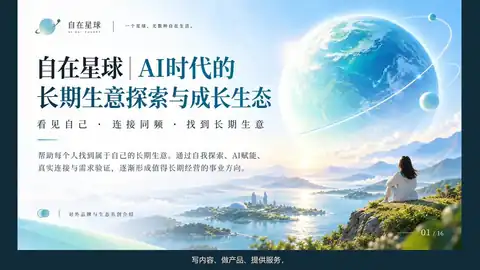
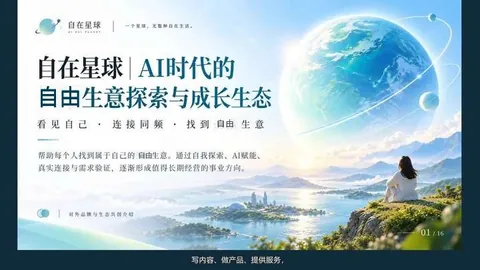
把用户可见的「长期生意」改为「自由生意」 (#4)
* 把用户可见的「长期生意」改为「自由生意」

口号改为帮每个人找到能带来人生自由的生意。首页、关于、欢迎卡、页脚、SEO，以及生活志和能量站种子文案一并调整；已入库内容用迁移替换，文章链接 slug 保持不变。

* 介绍封面改为自由生意

首页和关于页的视频封面图里印着旧口号，把「长期生意」换成「自由生意」，保留「长期经营」这句。

---------

diff --git a/app/page.tsx b/app/page.tsx
@@ -6,13 +6,13 @@ export default function HomePage() {
           <div className="wrap">
             <div className="hero-grid">
               <div className="hero-copy">
-                <div className="eyebrow">A home for long-term creators</div>
+                <div className="eyebrow">A business that frees your life</div>
                 <h1 id="hero-title">
                   AI时代，
                   <br />
                   帮每个人找到
                   <br />
-                  <span>属于自己的长期生意</span>
+                  <span>属于自己的自由生意</span>
                 </h1>
                 <p>
                   通过自我探索、AI赋能与同频连接，看见真实需求，
@@ -26,10 +26,10 @@ export default function HomePage() {
                     </span>
                   </a>
                   <a className="text-link" href="#philosophy">
-                    认识长期生意 <span aria-hidden="true">↓</span>
+                    认识自由生意 <span aria-hidden="true">↓</span>
                   </a>
                 </div>
-                <div className="hero-note">看见自己 · 连接同频 · 找到长期生意</div>
+                <div className="hero-note">看见自己 · 连接同频 · 找到自由生意</div>
               </div>
               <div
                 className="planet-scene"
@@ -113,7 +113,7 @@ export default function HomePage() {
               <div className="eyebrow">Watch · Intro</div>
               <h2 id="intro-video-title">认识自在星球</h2>
               <p>
-                看见自己 · 连接同频 · 找到长期生意。
+                看见自己 · 连接同频 · 找到自由生意。
                 <br />
                 一段宽屏介绍，帮你快速了解我们在做什么。
               </p>
@@ -144,7 +144,7 @@ export default function HomePage() {
               关系，在时间里慢慢长出来。
             </h2>
             <p>
-              自在星球，是一个关于「AI时代的长期生意」的交流社区。我们相信，一门值得长期经营的生意，生长于真实的能力、被理解的需求，以及一次次兑现的承诺。先找到自己，再找到值得一起走下去的人。
+              自在星球，是一个关于「AI时代的自由生意」的交流社区。我们相信，一门能带来人生自由的生意，生长于真实的能力、被理解的需求，以及一次次兑现的承诺。先找到自己，再找到值得一起走下去的人。
             </p>
           </div>
         </section>
@@ -249,7 +249,7 @@ export default function HomePage() {
                 </h2>
               </div>
               <p>
-                长期生意的起点，是一个值得解决的问题。先听见需要，再理解能力；让每一次行动创造价值，让价值慢慢积累成信任。
+                自由生意的起点，是一个值得解决的问题。先听见需要，再理解能力；让每一次行动创造价值，让价值慢慢积累成信任。
               </p>
             </div>
             <div className="flow">
@@ -292,7 +292,7 @@ export default function HomePage() {
             </div>
             <div className="flow-foot">
               <strong>人 → 需求 → 能力 → 价值 → 信任 → 新的连接</strong>
-              <span>这里分享长期生意的理念与方法；具体合作在线下独立开展。</span>
+              <span>这里分享自由生意的理念与方法；具体合作在线下独立开展。</span>
             </div>
           </div>
         </section>
@@ -555,7 +555,7 @@ export default function HomePage() {
                 让长期的事慢慢发生。
               </h2>
               <p>
-                注册成为自在星球的星球居民，一起聊成长、聊 AI、聊长期生意。
+                注册成为自在星球的星球居民，一起聊成长、聊 AI、聊自由生意。
                 <br />
                 看见自己，连接同频，成就彼此。
               </p>

diff --git a/app/about/page.tsx b/app/about/page.tsx
@@ -3,7 +3,7 @@ import type { Metadata } from "next";
 export const metadata: Metadata = { title: "关于我们" };
 
 const STORY = [
-  "自在星球想陪人做长期的事。看见自己 · 连接同频 · 共创长期生意。这是 AI 时代的长期生意共创生态：先看清自己，再把能力用明白，把经验留下来，与同频的人待在同一个场域。",
+  "自在星球想陪人做长期的事。看见自己 · 连接同频 · 共创自由生意。这是 AI 时代的自由生意共创生态：先看清自己，再把能力用明白，把经验留下来，与同频的人待在同一个场域。",
   "见自己，是七维自我探索。放大力，是 AI 能力成长，判断仍由自己做。认知分享留下文章和社区里的短记。同频与波，是茶局这样的交流场域。生活的样子不写在口号里，它留在你自己的探索之后。",
   "我们寻找愿意慢慢来的星球居民。不必一次想清全部，愿意看见自己，也愿意留下真实经验，就可以开始。线上提供认知、关系与场域。合作由成员线下独立协商。这里不做撮合，也不为交易或收益背书。",
 ];
@@ -16,10 +16,10 @@ export default function AboutPage() {
           <div className="kicker">ABOUT</div>
           <h1 className="page-title">关于我们</h1>
           <p className="serif" style={{ fontSize: 22, lineHeight: 1.7, marginBottom: 8 }}>
-            看见自己 · 连接同频 · 共创长期生意
+            看见自己 · 连接同频 · 共创自由生意
           </p>
           <p className="help" style={{ fontSize: 14 }}>
-            AI 时代的长期生意共创生态
+            AI 时代的自由生意共创生态
           </p>
         </div>
 

diff --git a/app/journal/page.tsx b/app/journal/page.tsx
@@ -5,7 +5,7 @@ import { formatWhen, one, optimizeRemoteImageUrl } from "@/lib/text";
 
 const JOURNAL_TITLE = "星球生活志";
 const JOURNAL_DESCRIPTION =
-  "自我探索、AI 时代的个人成长，与长期生意同行。文章由编辑发布，可收藏进家园。";
+  "自我探索、AI 时代的个人成长，走向自己的自由生意。文章由编辑发布，可收藏进家园。";
 
 export const metadata: Metadata = {
   title: JOURNAL_TITLE,
@@ -40,7 +40,7 @@ export default async function JournalPage({
         <div className="section-head left">
           <div className="kicker">PLANET JOURNAL</div>
           <h1 className="page-title">星球生活志</h1>
-          <p>自我探索、AI 时代的个人成长，与长期生意同行。文章由编辑发布，可收藏进家园。</p>
+          <p>自我探索、AI 时代的个人成长，走向自己的自由生意。文章由编辑发布，可收藏进家园。</p>
         </div>
         <Notice text={one(params.notice)} />
         {articles.length === 0 ? <div className="warn">还没有文章。</div> : null}

diff --git a/components/site-footer.tsx b/components/site-footer.tsx
@@ -12,7 +12,7 @@ export function SiteFooter() {
             <p>
               向内扎根，向外生长。
               <br />
-              AI 时代的长期生意共创生态
+              AI 时代的自由生意共创生态
             </p>
           </div>
           <nav aria-label="页脚导航" className="footer-nav">
@@ -35,7 +35,7 @@ export function SiteFooter() {
         </div>
         <p className="compliance">线上提供认知、关系与场域；合作由成员线下独立协商。不做站内项目撮合。</p>
         <div className="footer-bottom">
-          <span>© 2026 自在星球 · AI时代的长期生意</span>
+          <span>© 2026 自在星球 · AI时代的自由生意</span>
           <span>线上交流与连接 · 线下合作独立开展</span>
         </div>
       </div>

diff --git a/app/layout.tsx b/app/layout.tsx
@@ -7,9 +7,9 @@ import "./globals.css";
 export const dynamic = "force-dynamic";
 
 const APP_URL = "https://www.zizaiplanet.com";
-const SITE_TITLE = "自在星球 · 看见自己 · 连接同频 · 找到长期生意";
+const SITE_TITLE = "自在星球 · 看见自己 · 连接同频 · 找到自由生意";
 const SITE_DESCRIPTION =
-  "帮每个人找到属于自己的长期生意。看见自己，连接同频，把热爱与专长长成可持续的事业。";
+  "帮每个人找到属于自己的自由生意。看见自己，连接同频，把热爱与专长长成能带来人生自由的事业。";
 
 export const metadata: Metadata = {
   metadataBase: new URL(APP_URL),

diff --git a/components/welcome-card.tsx b/components/welcome-card.tsx
@@ -148,7 +148,7 @@ export function WelcomeCard({
           </span>
           <small>ZIZAI PLANET</small>
         </div>
-        <p className="welcome-path-lead">AI 时代，帮每个人找到自己的长期生意。</p>
+        <p className="welcome-path-lead">AI 时代，帮每个人找到自己的自由生意。</p>
         <ol className="welcome-steps">
           {PATH_STEPS.map((step) => (
             <li key={step.n}>
